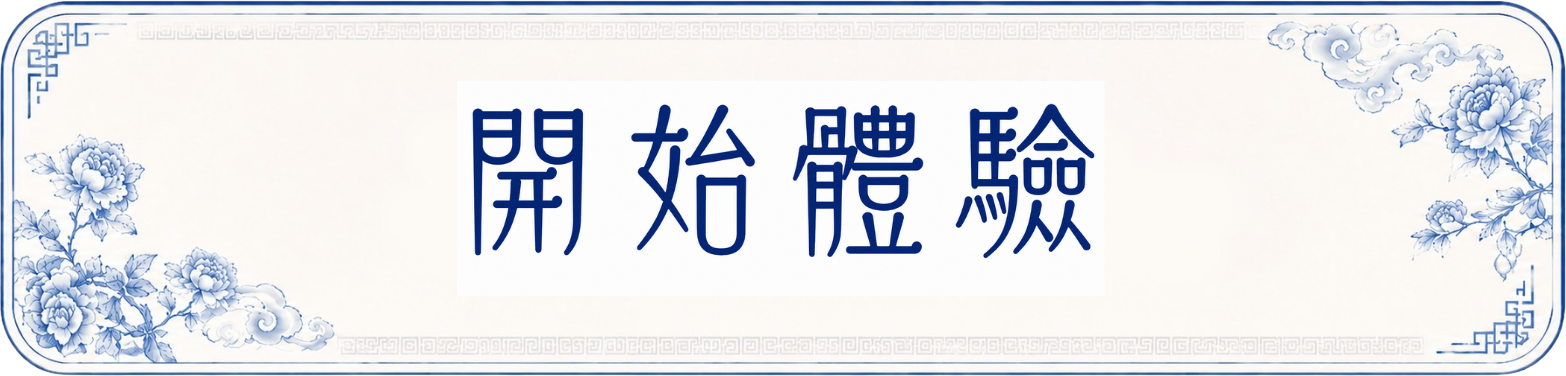
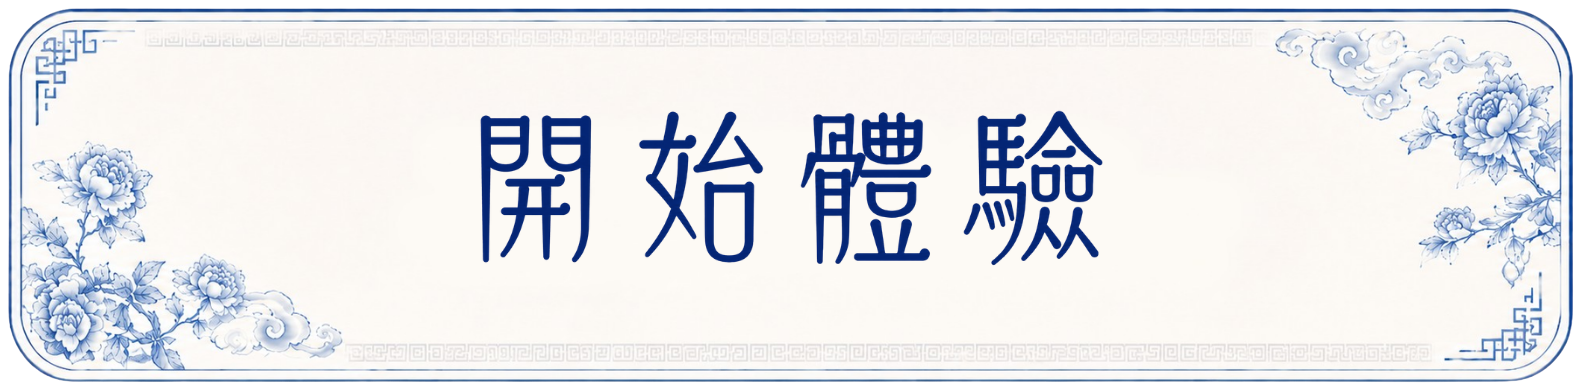
5

diff --git a/styles.css b/styles.css
@@ -78,6 +78,11 @@ button {
   box-shadow: none;
 }
 
+.question-screen {
+  background: var(--paper) url("%E5%9C%96%E7%89%87/home-background.png") center / cover no-repeat;
+  padding-bottom: calc(126px + env(safe-area-inset-bottom));
+}
+
 .question-screen::before {
   position: absolute;
   inset: 0;
@@ -90,6 +95,10 @@ button {
   background-size: 18px 18px;
   opacity: 0.2;
   pointer-events: none;
+}
+
+.question-screen::before {
+  display: none;
 }
 
 .question-screen > * {
@@ -147,14 +156,16 @@ button {
 
 .icon-button {
   position: relative;
-  width: 38px;
-  height: 38px;
+  width: 48px;
+  height: 48px;
+  padding: 0;
   border: 0;
   background: transparent;
   color: var(--ink-deep);
 }
 
 .icon-button::before {
+  display: none;
   position: absolute;
   top: 10px;
   left: 14px;
@@ -164,6 +175,13 @@ button {
   border-left: 3px solid currentColor;
   border-bottom: 3px solid currentColor;
   transform: rotate(45deg);
+}
+
+.icon-button img {
+  display: block;
+  width: 100%;
+  height: 100%;
+  object-fit: contain;
 }
 
 .flower-icon {
@@ -195,17 +213,19 @@ button {
 .question-card {
   position: relative;
   display: block;
-  min-height: 188px;
-  border: 1.5px solid rgba(29, 71, 122, 0.35);
-  border-radius: 12px;
-  background: rgba(255, 251, 244, 0.62);
-  box-shadow: inset 0 0 0 1px rgba(255, 255, 255, 0.38);
+  aspect-ratio: 1448 / 1086;
+  min-height: 0;
+  border: 0;
+  border-radius: 0;
+  background: url("%E5%9C%96%E7%89%87/question-frame.png") center / 100% 100% no-repeat;
+  box-shadow: none;
 }
 
 .question-card textarea {
   width: 100%;
-  min-height: 164px;
-  padding: 22px 18px 38px;
+  height: 100%;
+  min-height: 0;
+  padding: 102px 58px 64px;
   border: 0;
   resize: none;
   background: transparent;
@@ -224,15 +244,15 @@ button {
 
 .count {
   position: absolute;
-  right: 16px;
-  bottom: 16px;
+  right: 36px;
+  bottom: 38px;
   color: rgba(20, 52, 101, 0.46);
   font-size: 0.88rem;
   font-weight: 700;
 }
 
 .field-group {
-  margin-top: 28px;
+  margin-top: -46px;
 }
 
 .field-group h2 {
@@ -250,10 +270,14 @@ button {
 }
 
 .pill {
-  min-height: 44px;
-  border: 1.5px solid rgba(29, 71, 122, 0.42);
-  border-radius: 999px;
-  background: rgba(255, 251, 244, 0.72);
+  display: grid;
+  place-items: center;
+  aspect-ratio: 1084 / 528;
+  min-height: 0;
+  padding: 0 14px;
+  border: 0;
+  border-radius: 0;
+  background: url("%E5%9C%96%E7%89%87/relationship-idle.png") center / 100% 100% no-repeat;
   color: var(--ink-deep);
   font-size: 0.98rem;
   font-weight: 900;
@@ -261,15 +285,12 @@ button {
 }
 
 .pill.active {
-  border-color: var(--ink-deep);
-  background:
-    linear-gradient(135deg, rgba(255, 255, 255, 0.18), transparent),
-    var(--ink-deep);
+  background: url("%E5%9C%96%E7%89%87/relationship-active.png") center / 100% 100% no-repeat;
   color: #fff8ef;
 }
 
 .journal-panel {
-  margin-top: 24px;
+  margin-top: 12px;
 }
 
 .journal-heading {
@@ -378,23 +399,53 @@ button {
   white-space: nowrap;
 }
 
-.next-button {
-  position: absolute;
-  left: 50%;
-  bottom: 42px;
-  width: min(78%, 270px);
-  min-height: 58px;
-  border: 1.5px solid rgba(29, 71, 122, 0.48);
-  border-radius: 8px;
-  background:
-    linear-gradient(135deg, rgba(255, 255, 255, 0.14), transparent 45%),
-    var(--ink-deep);
-  color: #fff8ef;
-  font-size: 1.08rem;
+.journal-entry-body {
+  display: grid;
+  flex: 1;
+  min-width: 0;
+  gap: 3px;
+}
+
+.journal-entry-body p {
+  flex: initial;
+}
+
+.journal-result {
+  color: rgba(20, 52, 101, 0.58);
+  font-size: 0.78rem;
   font-weight: 900;
-  letter-spacing: 0;
-  box-shadow: 0 12px 24px rgba(20, 52, 101, 0.2);
+  line-height: 1.3;
+}
+
+.next-button {
+  position: fixed;
+  left: 50%;
+  bottom: calc(20px + env(safe-area-inset-bottom));
+  z-index: 8;
+  width: min(70%, 270px);
+  padding: 0;
+  border: 0;
+  background: transparent;
+  color: transparent;
+  font-size: 0;
+  line-height: 0;
   transform: translateX(-50%);
+  transition: transform 180ms ease, filter 180ms ease;
+}
+
+.next-button:hover,
+.next-button:focus-visible {
+  filter: brightness(0.96);
+  transform: translateX(-50%) translateY(-2px);
+  outline: none;
+}
+
+.next-button img {
+  display: block;
+  width: 100%;
+  height: auto;
+  filter: drop-shadow(5px 8px 12px rgba(20, 52, 101, 0.18));
+  pointer-events: none;
 }
 
 .umbrella-wheel {
@@ -606,30 +657,23 @@ button {
   top: 74px;
   left: 24px;
   display: grid;
+  justify-items: center;
   gap: 16px;
-  width: 94px;
-  text-align: center;
+  width: 104px;
 }
 
-.brand-mark {
-  margin: 0;
-  color: var(--ink-deep);
-  font-size: clamp(2rem, 10vw, 3rem);
-  font-weight: 900;
-  line-height: 1.16;
-  letter-spacing: 0;
-  text-shadow: 0 1px 0 rgba(255, 255, 255, 0.8);
+.brand-title {
+  display: block;
+  width: 72px;
+  height: auto;
+  filter: drop-shadow(0 1px 0 rgba(255, 255, 255, 0.72));
 }
 
-.tagline {
-  margin: 0;
-  writing-mode: vertical-rl;
-  justify-self: center;
-  height: 11.5rem;
-  color: var(--ink-deep);
-  font-size: 1.03rem;
-  font-weight: 700;
-  letter-spacing: 0;
+.brand-slogan {
+  display: block;
+  width: 48px;
+  height: auto;
+  filter: drop-shadow(0 1px 0 rgba(255, 255, 255, 0.65));
 }
 
 .home-umbrella {
@@ -689,6 +733,7 @@ button {
 }
 
 .seal {
+  display: none;
   position: absolute;
   top: 480px;
   left: 86px;

diff --git a/index.html b/index.html
@@ -13,8 +13,8 @@
       <div class="corner-flower corner-flower-bottom" aria-hidden="true"></div>
 
       <div class="brand">
-        <p class="brand-mark">&#32227;<br>&#20998;<br>&#31844;<br>&#35433;</p>
-        <p class="tagline">&#20197;&#20632;&#21839;&#24515;&#12539;&#20197;&#32011;&#21892;&#32227;</p>
+        <img class="brand-title" src="%E5%9C%96%E7%89%87/home-title.png" alt="&#32227;&#20998;&#31844;&#35433;">
+        <img class="brand-slogan" src="%E5%9C%96%E7%89%87/home-slogan.png" alt="&#20197;&#20632;&#21839;&#24515;&#65292;&#20197;&#32227;&#21892;&#32227;">
       </div>
 
       <img class="home-umbrella" src="%E5%9C%96%E7%89%87/cover-umbrella.png" alt="" aria-hidden="true">
@@ -29,7 +29,9 @@
 
     <section class="screen question-screen" id="questionScreen" aria-label="&#23531;&#19979;&#20320;&#30340;&#21839;&#38988;">
       <header class="question-header">
-        <button class="icon-button" id="backButton" type="button" aria-label="&#36820;&#22238;&#39318;&#38913;"></button>
+        <button class="icon-button" id="backButton" type="button" aria-label="&#36820;&#22238;&#39318;&#38913;">
+          <img src="%E5%9C%96%E7%89%87/back-button.png" alt="">
+        </button>
         <h1>&#23531;&#19979;&#20320;&#30340;&#21839;&#38988;</h1>
         <span class="flower-icon" aria-hidden="true"></span>
       </header>
@@ -57,12 +59,16 @@
         <div class="journal-list" id="journalList"></div>
       </section>
 
-      <button class="next-button" id="nextButton" type="button">&#19979;&#19968;&#27493;</button>
+      <button class="next-button" id="nextButton" type="button">
+        <img src="%E5%9C%96%E7%89%87/next-button.png" alt="&#19979;&#19968;&#27493;">
+      </button>
     </section>
 
     <section class="screen guidance-screen" id="guidanceScreen" aria-label="&#36681;&#21205;&#27833;&#32025;&#20632;">
       <header class="guidance-header">
-        <button class="icon-button" id="guidanceBackButton" type="button" aria-label="&#36820;&#22238;&#25552;&#21839;&#38913;"></button>
+        <button class="icon-button" id="guidanceBackButton" type="button" aria-label="&#36820;&#22238;&#25552;&#21839;&#38913;">
+          <img src="%E5%9C%96%E7%89%87/back-button.png" alt="">
+        </button>
         <div class="guidance-title">
           <h1>&#36681;&#21205;&#27833;&#32025;&#20632;</h1>
           <p>&#38936;&#24917;&#20320;&#30340;&#32227;&#20998;&#25351;&#24341;</p>

diff --git a/script.js b/script.js
@@ -487,10 +487,18 @@ function renderJournalList() {
       icon.className = "journal-entry-icon";
       icon.textContent = journalRecord.type || "\u554f";
 
+      const body = document.createElement("div");
+      body.className = "journal-entry-body";
+
       const text = document.createElement("p");
       text.textContent = journalRecord.question || emptyQuestionText;
 
-      record.append(icon, text);
+      const result = document.createElement("span");
+      result.className = "journal-result";
+      result.textContent = journalRecord.result ? `\u7d50\u679c\uff1a${journalRecord.result}` : "\u5c1a\u672a\u89e3\u7c64";
+
+      body.append(text, result);
+      record.append(icon, body);
       group.append(record);
     });
 